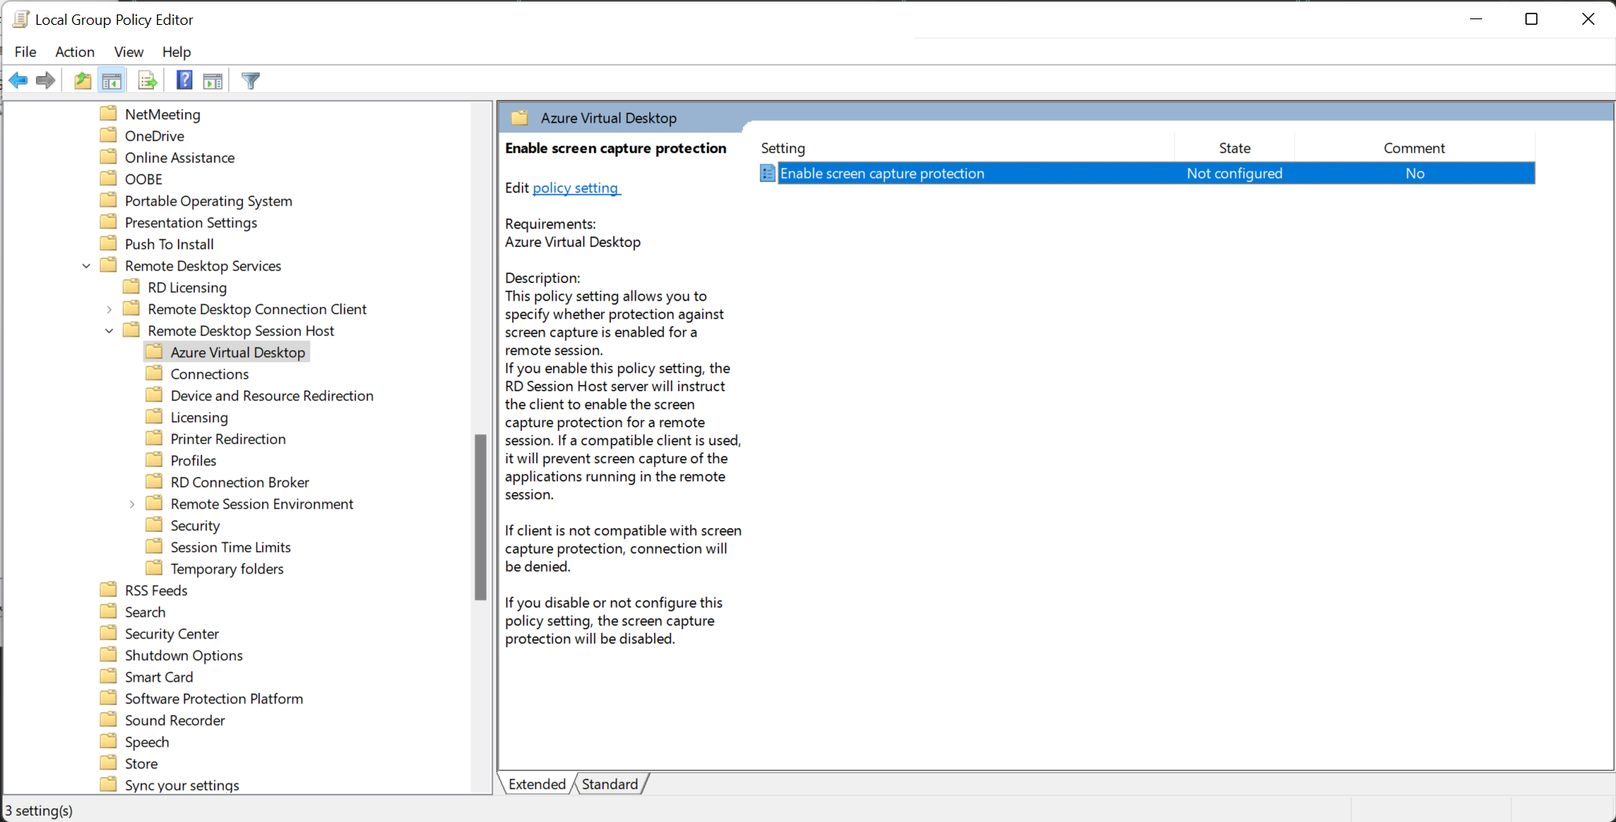
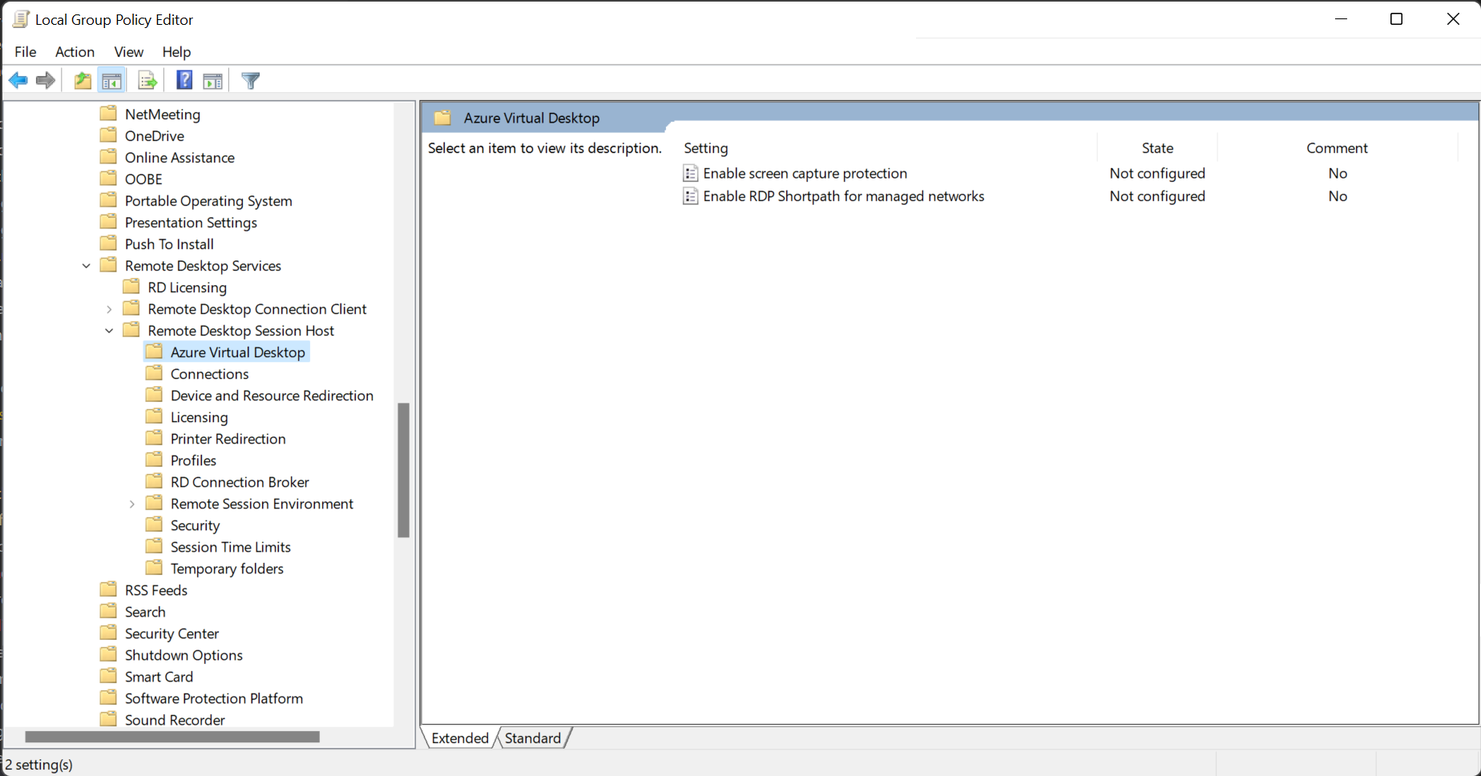
RDP Shortpath GA documentation

Changed region(s): [[0.0, 0.0, 1.0, 1.0], [0.9253, 0.0, 0.987, 0.031]]

diff --git a/virtual-desktop/shortpath.md b/virtual-desktop/shortpath.md
@@ -1,27 +1,22 @@
 ---
-title: Azure Virtual Desktop RDP Shortpath (preview)
+title: Azure Virtual Desktop RDP Shortpath for managed networks
 titleSuffix: Azure
-description: How to set up RDP Shortpath (preview) for Azure Virtual Desktop.
+description: How to set up RDP Shortpath for managed networks for Azure Virtual Desktop.
 author: gundarev
 ms.topic: conceptual
-ms.date: 11/16/2020
+ms.date: 10/18/2021
 ms.author: denisgun
 ---
 
-# Azure Virtual Desktop RDP Shortpath (preview)
+# Azure Virtual Desktop RDP Shortpath for managed networks
 
-> [!IMPORTANT]
-> RDP Shortpath is currently in public preview.
-> This preview is provided without a service level agreement, and we don't recommend using it for production workloads. Certain features might not be supported or might have constrained capabilities.
-> For more information, see [Supplemental Terms of Use for Microsoft Azure Previews](https://azure.microsoft.com/support/legal/preview-supplemental-terms/).
-
-RDP Shortpath is a feature of Azure Virtual Desktop that establishes a direct UDP-based transport between Remote Desktop Client and Session host. RDP uses this transport to deliver Remote Desktop and RemoteApp while offering better reliability and consistent latency.
+RDP Shortpath for managed networks is a feature of Azure Virtual Desktop that establishes a direct UDP-based transport between Remote Desktop Client and Session host. RDP uses this transport to deliver Remote Desktop and RemoteApp while offering better reliability and consistent latency.
 
 ## Key benefits
 
 * RDP Shortpath transport is based on top of highly efficient  [Universal Rate Control Protocol (URCP)](https://www.microsoft.com/en-us/research/publication/urcp-universal-rate-control-protocol-for-real-time-communication-applications/). URCP enhances UDP with active monitoring of the network conditions and provides fair and full link utilization. URCP operates at low delay and loss levels as needed by Remote Desktop. URCP achieves the best performance by dynamically learning network parameters and providing protocol with a rate control mechanism.
 * RDP Shortpath establishes the direct connectivity between Remote Desktop client and Session Host. Direct connectivity reduces the dependency on the Azure Virtual Desktop gateways, improves the connection's reliability, and increases the bandwidth available for each user session.
-* The removal of additional relay reduces the round-trip time, which improves user experience with latency-sensitive applications and input methods.
+* The removal of extra relay reduces the round-trip time, which improves user experience with latency-sensitive applications and input methods.
 * RDP Shortpath brings support for [configuring Quality of Service (QoS)](./rdp-quality-of-service-qos.md) priority for RDP connections through a Differentiated Services Code Point (DSCP) marks
 * RDP Shortpath transport allows [limiting outbound network traffic](./rdp-bandwidth.md#limit-network-bandwidth-use-with-throttle-rate) by specifying a throttle rate for each session.
 
@@ -29,19 +24,19 @@ RDP Shortpath is a feature of Azure Virtual Desktop that establishes a direct UD
 
 RDP Shortpath is extending RDP multi-transport capabilities. It doesn't replace reverse connect transport but complements it. All of the initial session brokering is managed through the Azure Virtual Desktop infrastructure.
 
-UDP port 3390 is used only for the incoming Shortpath traffic that is authenticated over reverse connect transport. RDP Shortpath listener ignores all connection attempts to the listener unless they match the reverse connect session.
+Customer - configured UDP port is used only for the incoming Shortpath traffic that is authenticated over reverse connect transport. RDP Shortpath listener ignores all connection attempts to the listener unless they match the reverse connect session.
 
 RDP Shortpath uses a TLS connection between the client and the session host using the session host's certificates. By default, the certificate used for RDP encryption is self-generated by the OS during the deployment. If desired, customers may deploy centrally managed certificates issued by the enterprise certification authority. For more information about certificate configurations, see [Windows Server documentation](/troubleshoot/windows-server/remote/remote-desktop-listener-certificate-configurations).
 
 ## RDP Shortpath connection sequence
 
-After installing the [reverse connect transport](./network-connectivity.md), the client and session host establish the RDP connection and negotiate multi-transport capabilities. Additional steps described below:
+After establishing the [reverse connect transport](./network-connectivity.md), the client and session host starts the RDP connection and negotiate multi-transport capabilities. Extra steps are described below:
 
 1. The session host sends the list of its private and public IPv4 and IPv6 addresses to the client.
 2. The client starts the background thread to establish a parallel UDP-based transport directly to one of the host's IP addresses.
 3. While the client is probing the provided IP addresses, it continues the initial connection establishment over the reverse connect transport to ensure no delay in the user connection.
-4. If the client has a direct line of sight and the firewall configuration is correct, the client establishes a secure TLS connection with session host.
-5. After establishing the Shortpath transport, RDP moves all Dynamic Virtual Channels (DVCs), including remote graphics, input, and device redirection to the new transport.
+4. If the client has a direct line of sight, the client establishes a secure TLS connection with the session host.
+5. After establishing the Shortpath transport, RDP moves all Dynamic Virtual Channels (DVCs), including remote graphics, input, and device redirection, to the new transport.
 6. If a firewall or network topology prevents the client from establishing direct UDP connectivity, RDP continues with a reverse connect transport.
 
 The diagram below gives a high-level overview of the RDP Shortpath network connection.
@@ -52,53 +47,38 @@ The diagram below gives a high-level overview of the RDP Shortpath network conne
 
 To support RDP Shortpath, the Azure Virtual Desktop client needs a direct line of sight to the session host. You can get a direct line of sight by using one of the following technologies:
 
-* The remote client machines must be running either Windows 10 or Windows 7 and have the [Windows Desktop client](/windows-server/remote/remote-desktop-services/clients/windowsdesktop) installed. Currently, the web client is not supported.
+* The remote client machines must be running either Windows 10 or Windows 7 and have the [Windows Desktop client](/windows-server/remote/remote-desktop-services/clients/windowsdesktop) installed. Currently, non-Windows clients aren't supported.
 * [ExpressRoute private peering](../expressroute/expressroute-circuit-peerings.md)
 * [Site-to-Site VPN (IPsec based)](../vpn-gateway/tutorial-site-to-site-portal.md)
 * [Point-to-Site VPN (IPsec based)](../vpn-gateway/vpn-gateway-howto-point-to-site-resource-manager-portal.md)
 * [Public IP address assignment](../virtual-network/virtual-network-public-ip-address.md)
 
-If you're using other VPN types to connect to the Azure virtual network, we recommend using UDP-based VPN for the best results. While the majority of TCP-based VPN solutions encapsulate all IP packets, including UDP, they add inherited overhead of TCP congestion control that would slow down RDP performance.
+If you're using other VPN types to connect to the Azure, we recommend using a UDP-based VPN for the best results. While most TCP-based VPN solutions support nested UDP, they add inherited overhead of TCP congestion control, slowing down RDP performance.
 
-The direct line of sight means that firewalls aren't blocking UDP port 3390 and the client can connect directly to the session host.
+The direct line of sight means client can connect directly to the session host and firewalls aren't blocking the connection.
 
-## Enabling RDP Shortpath preview
+## Configure RDP Shortpath for managed networks
 
-To participate in the preview of RDP Shortpath, you need to enable RDP Shortpath listener on the session host. You can enable RDP Shortpath on any number of session hosts used in your environment. There's no requirement to enable RDP Shortpath on all hosts in the pool.
-To enable Shortpath listener, you need to configure the following registry values:
+To enable RDP Shortpath for managed networks, you need to enable RDP Shortpath listener on the session host. You can enable RDP Shortpath on any number of session hosts used in your environment. There's no requirement to enable RDP Shortpath on all hosts in the pool.
 
-> [!WARNING]
-> Serious problems might occur if you modify the registry incorrectly using Registry Editor or by using another method. These problems might require that you reinstall your operating system. Microsoft cannot guarantee that these problems can be solved. Modify the registry at your own risk.
+To enable RDP Shortpath listener, follow the steps below:
 
-1. On the session host, Start Regedit.exe, and then navigate to the following location:
+1. To configure RDP Shortpath for managed networks, you need to install administrative templates that add rules and settings for Azure Virtual Desktop.
+2. Download the [Azure Virtual Desktop policy templates file](https://aka.ms/avdgpo) (AVDGPTemplate.cab) and extract the contents of the cab file and zip archive.
+3. Copy the *terminalserver-avd.admx* file to *%windir%\PolicyDefinitions* folder
+4. Copy the *en-us\terminalserver-avd.adml* file to *%windir%\PolicyDefinitions\en-us* folder
+5. To confirm the files copied correctly, open the Group Policy Editor and navigate to **Computer Configuration** -> **Administrative Templates** -> **Windows Components** -> **Remote Desktop Services** -> **Remote Desktop Session Host** -> **Azure Virtual Desktop**
+6. You should see one or more Azure Virtual Desktop policies, as shown below.
 
-    ```cmd
-    HKEY_LOCAL_MACHINE\SYSTEM\CurrentControlSet\Control\Terminal Server\WinStations
-    ```
+   :::image type="content" source="media/azure-virtual-desktop-gpo.png" alt-text="Screenshot of the group policy editor" lightbox="media/azure-virtual-desktop-gpo.png":::
 
-2. Create a new **DWORD** value named **fUseUdpPortRedirector** and set it to **1** (decimal)
-3. Create a new **DWORD** value named **UdpPortNumber** and set it to **3390** (decimal)
-4. Quit Registry Editor.
-5. Restart session host
+   > [!TIP]
+   > You can also install administrative templates to the group policy Central Store in your Active Directory domain.
+   > For more information about Central Store for Group Policy Administrative Templates, see [How to create and manage the Central Store for Group Policy Administrative Templates in Windows](/troubleshoot/windows-client/group-policy/create-and-manage-central-store).
 
-You can also run the following cmdlets in an elevated PowerShell window to set these registry values:
-
-```powershell
-$WinstationsKey = 'HKLM:\SYSTEM\CurrentControlSet\Control\Terminal Server\WinStations'
-New-ItemProperty -Path $WinstationsKey -Name 'fUseUdpPortRedirector' -ErrorAction:SilentlyContinue -PropertyType:dword -Value 1 -Force
-New-ItemProperty -Path $WinstationsKey -Name 'UdpPortNumber' -ErrorAction:SilentlyContinue -PropertyType:dword -Value 3390 -Force
-```
-
-You can also use PowerShell to configure Group policy
-
-```powershell
-# Replace $domainName value with the name of your Active Directory domain
-# Replace $policyName value with the name of existing Group Policy Object
-$domainName = "contoso.com"
-$policyName = "RDP Shortpath Policy"
-Set-GPPrefRegistryValue -Key 'HKLM\SYSTEM\CurrentControlSet\Control\Terminal Server\WinStations' -ValueName 'fUseUdpPortRedirector' -Value 1 -Type:DWord  -Action:Create -Context:Computer -Name $policyName -Domain $domainName
-Set-GPPrefRegistryValue -Key 'HKLM\SYSTEM\CurrentControlSet\Control\Terminal Server\WinStations' -ValueName 'UdpPortNumber' -Value 3390 -Type:DWord  -Action:Create -Context:Computer -Name $policyName -Domain $domainName
-```
+7. Open the **"Enable RDP Shortpath for managed networks"** policy and set it to **"Enabled"**.
+8. If you enable this policy setting, you can also configure the port number that the Azure Virtual Desktop session host will use to listen for incoming connections. The default port is 3390.
+9. Restart session host
 
 ## Configure Windows Defender Firewall with Advanced Security
 
@@ -109,11 +89,11 @@ To allow inbound network traffic for RDP Shortpath, use the Windows Defender Fir
 3. Select **Action**, and then select **New rule**.
 4. On the **Rule Type** page of the New Inbound Rule Wizard, select **Custom**, and then select **Next**.
 5. On the **Program** page, select **This program path**, and type "%SystemRoot%\system32\svchost.exe' then select **Next**.
-6. On the **Protocol and Ports** page, select the UDP protocol type. In the **Local port**, select "Specific ports" and type in 3390.
+6. On the **Protocol and Ports** page, select the UDP protocol type. In the **Local port**, select "Specific ports" and type in configured UDP port, the default port is 3390.
 7. On the **Scope** page, you can specify that the rule applies only to network traffic to or from the IP addresses entered on this page. Configure as appropriate for your design, and then select **Next**.
 8. On the **Action** page, select **Allow the connection**, and then select **Next**.
 9. On the **Profile** page, select the network location types to which this rule applies, and then select **Next**.
-10. On the **Name** page, type a name and description for your rule, and then select **Finish**.
+10. On the **Name** page, type a name and description for your rule and then select **Finish**.
 
 You can verify that the new rule matches the screenshots below:
 :::image type="content" source="media/rdp-shortpath-firewall-general-tab.png" alt-text="Screenshot of the General tab for Firewall configuration for RDP Shortpath Network Connections" lightbox="media/rdp-shortpath-firewall-general-tab.png":::
@@ -130,7 +110,7 @@ New-NetFirewallRule -DisplayName 'Remote Desktop - Shortpath (UDP-In)'  -Action 
 
 ### Using PowerShell to configure Windows Defender Firewall
 
-You can also use PowerShell to configure Group policy
+You can also use PowerShell to configure Group policy.
 
 ```powershell
 # Replace $domainName value with the name of your Active Directory domain
@@ -158,13 +138,13 @@ Follow the [network security group documentation](../virtual-machines/windows/ns
 
 ### Disabling RDP Shortpath for a specific subnet
 
-If you need to block specific subnets from using the RDP Shortpath transport, you can configure additional network security groups specifying the Source IP ranges.
+Suppose you need to block specific subnets from using the RDP Shortpath transport. In that case, you can configure another network security groups specifying the Source IP ranges.
 
 ## Verifying the connectivity
 
 ### Using Connection Information dialog
 
-To verify that connections are using RDP Shortpath, open the “Connection Information” dialog by clicking on the antenna icon in the connection toolbar.
+To verify that connections are using RDP Shortpath, open the "Connection Information" dialog by clicking on the antenna icon in the connection toolbar.
 
 :::image type="content" source="media/rdp-shortpath-connection-bar.png" alt-text="Image of Remote Desktop Connection Bar":::
 
@@ -174,17 +154,17 @@ To verify that connections are using RDP Shortpath, open the “Connection Infor
 
 To verify that session is using RDP Shortpath transport:
 
-1. Connect to the desktop of the VM using Azure Virtual Desktop client.
+1. Connect to the desktop of the VM using the Azure Virtual Desktop client.
 2. Launch the Event Viewer and navigate to the following node: **Applications and Services Logs > Microsoft > Windows > RemoteDesktopServices-RdpCoreCDV > Microsoft-Windows-RemoteDesktopServices-RdpCoreCDV/Operational**
 3. To determine if RDP Shortpath transport is used, look for event ID 131.
 
 ### Using Log Analytics to verify Shortpath connectivity
 
-If you are using [Azure Log Analytics](./diagnostics-log-analytics.md), you can monitor connections by querying the [WVDConnections table](/azure/azure-monitor/reference/tables/wvdconnections). A column named UdpUse, indicates whether Azure Virtual Desktop RDP Stack uses UDP protocol on current user connection.
+If you're using [Azure Log Analytics](./diagnostics-log-analytics.md), you can monitor connections by querying the [WVDConnections table](/azure/azure-monitor/reference/tables/wvdconnections). A column named UdpUse, indicates whether Azure Virtual Desktop RDP Stack uses UDP protocol on current user connection.
 The possible values are:
 
 * **0** - user connection isn't using RDP Shortpath
-* **1** - user connection is using RDP Shortpath
+* **1** - user connection is using RDP Shortpath for managed networks
   
 The following query list lets you review connection information. You can run this query in the [Log Analytics query editor](../azure-monitor/logs/log-analytics-tutorial.md#write-a-query). For each query, replace `userupn` with the UPN of the user you want to look up.
 
@@ -220,7 +200,7 @@ LocalAddress                             LocalPort
 0.0.0.0                                  3390
 ```
 
-If there is a conflict, you can identify the process occupying the port using the following command
+If there's a conflict, you can identify the process occupying the port using the following command
 
 ```powershell
 Get-Process -id (Get-NetUDPEndpoint  -LocalPort 3390 -LocalAddress 0.0.0.0).OwningProcess
@@ -236,7 +216,7 @@ To disable RDP Shortpath for a specific client, you can use the following Group 
 
 1. On the client, Run **gpedit.msc**.
 2. Navigate to **Computer Configuration > Administration Templates > Windows Components > Remote Desktop Services > Remote Desktop Connection Client**.
-3. Set the **“Turn Off UDP On Client”** setting to **Enabled**
+3. Set the **"Turn Off UDP On Client"** setting to **Enabled**
 
 ### Disabling RDP Shortpath on the session host
 
@@ -244,12 +224,7 @@ To disable RDP Shortpath for a specific session host, you can use the following 
 
 1. On the Session Host Run **gpedit.msc**.
 2. Navigate to **Computer Configuration > Administration Templates > Windows Components > Remote Desktop Services > Remote Desktop Connection Host > Connections**.
-3. Set the **“Select RDP Transport Protocols”** setting to **TCP Only**
-
-## Public preview feedback
-
-We'd like to hear from you about your experiences with this public preview!
-* For questions, requests, comments, and other feedback, [use this feedback form](https://aka.ms/RDPShortpathFeedback).
+3. Set the **"Select RDP Transport Protocols"** setting to **TCP Only**
 
 ## Next steps
 

diff --git a/virtual-desktop/rdp-quality-of-service-qos.md b/virtual-desktop/rdp-quality-of-service-qos.md
@@ -1,20 +1,15 @@
 ---
-title: Implement Quality of Service (QoS) for Azure Virtual Desktop (preview)
+title: Implement Quality of Service (QoS) for Azure Virtual Desktop
 titleSuffix: Azure
-description: How to set up QoS (preview) for Azure Virtual Desktop.
+description: How to set up QoS for Azure Virtual Desktop.
 author: gundarev
 ms.topic: conceptual
-ms.date: 11/16/2020
+ms.date: 10/18/2021
 ms.author: denisgun
 ---
-# Implement Quality of Service (QoS) for Azure Virtual Desktop (preview)
+# Implement Quality of Service (QoS) for Azure Virtual Desktop
 
-> [!IMPORTANT]
-> Quality of Service (QoS) Policy support for Azure Virtual Desktop is currently in public preview.
-> This preview is provided without a service level agreement, and we don't recommend using it for production workloads. Certain features might not be supported or might have constrained capabilities.
-> For more information, see [Supplemental Terms of Use for Microsoft Azure Previews](https://azure.microsoft.com/support/legal/preview-supplemental-terms/).
-
-[RDP Shortpath](./shortpath.md) provides a direct UDP-based transport between Remote Desktop Client and Session host. RDP Shortpath enables configuration of Quality of Service (QoS) policies for the RDP data.
+[RDP Shortpath for managed networks](./shortpath.md) provides a direct UDP-based transport between Remote Desktop Client and Session host. RDP Shortpath for managed networks enables configuration of Quality of Service (QoS) policies for the RDP data.
 QoS in Azure Virtual Desktop allows real-time RDP traffic that's sensitive to network delays to "cut in line" in front of traffic that's less sensitive. Example of such less sensitive traffic would be a downloading a new app, where an extra second to download isn't a large deal. QoS uses Windows Group Policy Objects to identify and mark all packets in real-time streams and help your network to give RDP traffic a dedicated portion of bandwidth.
 
 If you support a large group of users experiencing any of the problems described in this article, you probably need to implement QoS. A small business with few users might not need QoS, but it should be helpful even there.
@@ -44,7 +39,7 @@ A simple analogy is that QoS creates virtual "carpool lanes" in your data networ
 At a high level, do the following to implement QoS:
 
 1. [Make sure your network is ready](#make-sure-your-network-is-ready)
-2. [Make sure that RDP Shortpath is enabled](./shortpath.md) - QoS policies are not supported for reverse connect transport
+2. [Make sure that RDP Shortpath for managed networks is enabled](./shortpath.md) - QoS policies are not supported for reverse connect transport
 3. [Implement insertion of DSCP markers](#insert-dscp-markers) on session hosts
 
 As you prepare to implement QoS, keep the following guidelines in mind:
@@ -113,10 +108,10 @@ The new policies you've created won't take effect until Group Policy has been re
 
 ### Implement QoS on session host using PowerShell
 
-You can set QoS for RDP Shortpath using the PowerShell cmdlet below:
+You can set QoS for RDP Shortpath for managed networks using the PowerShell cmdlet below:
 
 ```powershell
-New-NetQosPolicy -Name "RDP Shortpath" -AppPathNameMatchCondition "svchost.exe" -IPProtocolMatchCondition UDP -IPSrcPortStartMatchCondition 3390 -IPSrcPortEndMatchCondition 3390 -DSCPAction 46 -NetworkProfile All
+New-NetQosPolicy -Name "RDP Shortpath for managed networks" -AppPathNameMatchCondition "svchost.exe" -IPProtocolMatchCondition UDP -IPSrcPortStartMatchCondition 3390 -IPSrcPortEndMatchCondition 3390 -DSCPAction 46 -NetworkProfile All
 ```
 
 ## Related articles

diff --git a/virtual-desktop/proxy-server-support.md b/virtual-desktop/proxy-server-support.md
@@ -31,9 +31,9 @@ If your organization's network and security policies require proxy servers for w
 
 - Azure service tags on the Azure firewall
 - Proxy server bypass using Proxy Auto Configuration (.PAC) files
-- Bypass list in the local proxy configuration 
-- Using proxy servers for per-user configuration 
-- Using RDP shortpath for the RDP connection while keeping the service traffic over the proxy 
+- Bypass list in the local proxy configuration
+- Using proxy servers for per-user configuration
+- Using RDP Shortpath for the RDP connection while keeping the service traffic over the proxy
 
 ## Recommendations for using proxy servers
 
@@ -43,9 +43,9 @@ Some organizations require that all user traffic goes through a proxy server for
 
 When you use a proxy server, it handles all communication with the Azure Virtual Desktop infrastructure and performs DNS resolution and Anycast routing to the nearest Azure Front Door. If your proxy servers are distant or distributed across an Azure geography, your geographical resolution will be less accurate. Less accurate geographical resolution means connections will be routed to a more distant Azure Virtual Desktop cluster. To avoid this issue, only use proxy servers that are geographically close to your Azure Virtual Desktop cluster.
 
-### Use RDP shortpath for desktop connectivity
+### Use RDP Shortpath for managed networks for desktop connectivity
 
-When you enable RDP shortpath, RDP data will bypass the proxy server, if possible. Bypassing the proxy server ensures optimal routing while using the UDP transport. Other Azure Virtual Desktop traffic, such as brokering, orchestration, and diagnostics will still go through the proxy server. 
+When you enable RDP Shortpath for managed networks, RDP data will bypass the proxy server, if possible. Bypassing the proxy server ensures optimal routing while using the UDP transport. Other Azure Virtual Desktop traffic, such as brokering, orchestration, and diagnostics will still go through the proxy server.
 
 ### Don't use SSL termination on the proxy server
 

diff --git a/virtual-desktop/rdp-bandwidth.md b/virtual-desktop/rdp-bandwidth.md
@@ -93,7 +93,7 @@ In most scenarios, there's no need to limit bandwidth utilization as limiting ma
 In such cases, you could limit an RDP outbound network traffic by specifying a throttle rate in QoS Policy.
 
   >[!NOTE]
-  > [Make sure that RDP Shortpath is enabled](./shortpath.md) - throttle rate-limiting are not supported for reverse connect transport.
+  > [Make sure that RDP Shortpath for managed networks is enabled](./shortpath.md) - throttle rate-limiting are not supported for reverse connect transport.
 
 ### Implement throttle rate limiting on session host using Group Policy
 
@@ -133,10 +133,10 @@ The new policies you've created won't take effect until Group Policy has been re
 
 ### Implement throttle rate limiting on session host using PowerShell
 
-You can set throttle rate for RDP Shortpath using the PowerShell cmdlet below:
+You can set throttle rate for RDP Shortpath for managed networks using the PowerShell cmdlet below:
 
 ```powershell
-New-NetQosPolicy -Name "RDP Shortpath" -AppPathNameMatchCondition "svchost.exe" -IPProtocolMatchCondition UDP -IPSrcPortStartMatchCondition 3390 -IPSrcPortEndMatchCondition 3390 -DSCPAction 46 -NetworkProfile All
+New-NetQosPolicy -Name "RDP Shortpath for managed networks" -AppPathNameMatchCondition "svchost.exe" -IPProtocolMatchCondition UDP -IPSrcPortStartMatchCondition 3390 -IPSrcPortEndMatchCondition 3390  -ThrottleRateActionBitsPerSecond 10mb -NetworkProfile All
 ```
 
 ## Next steps
